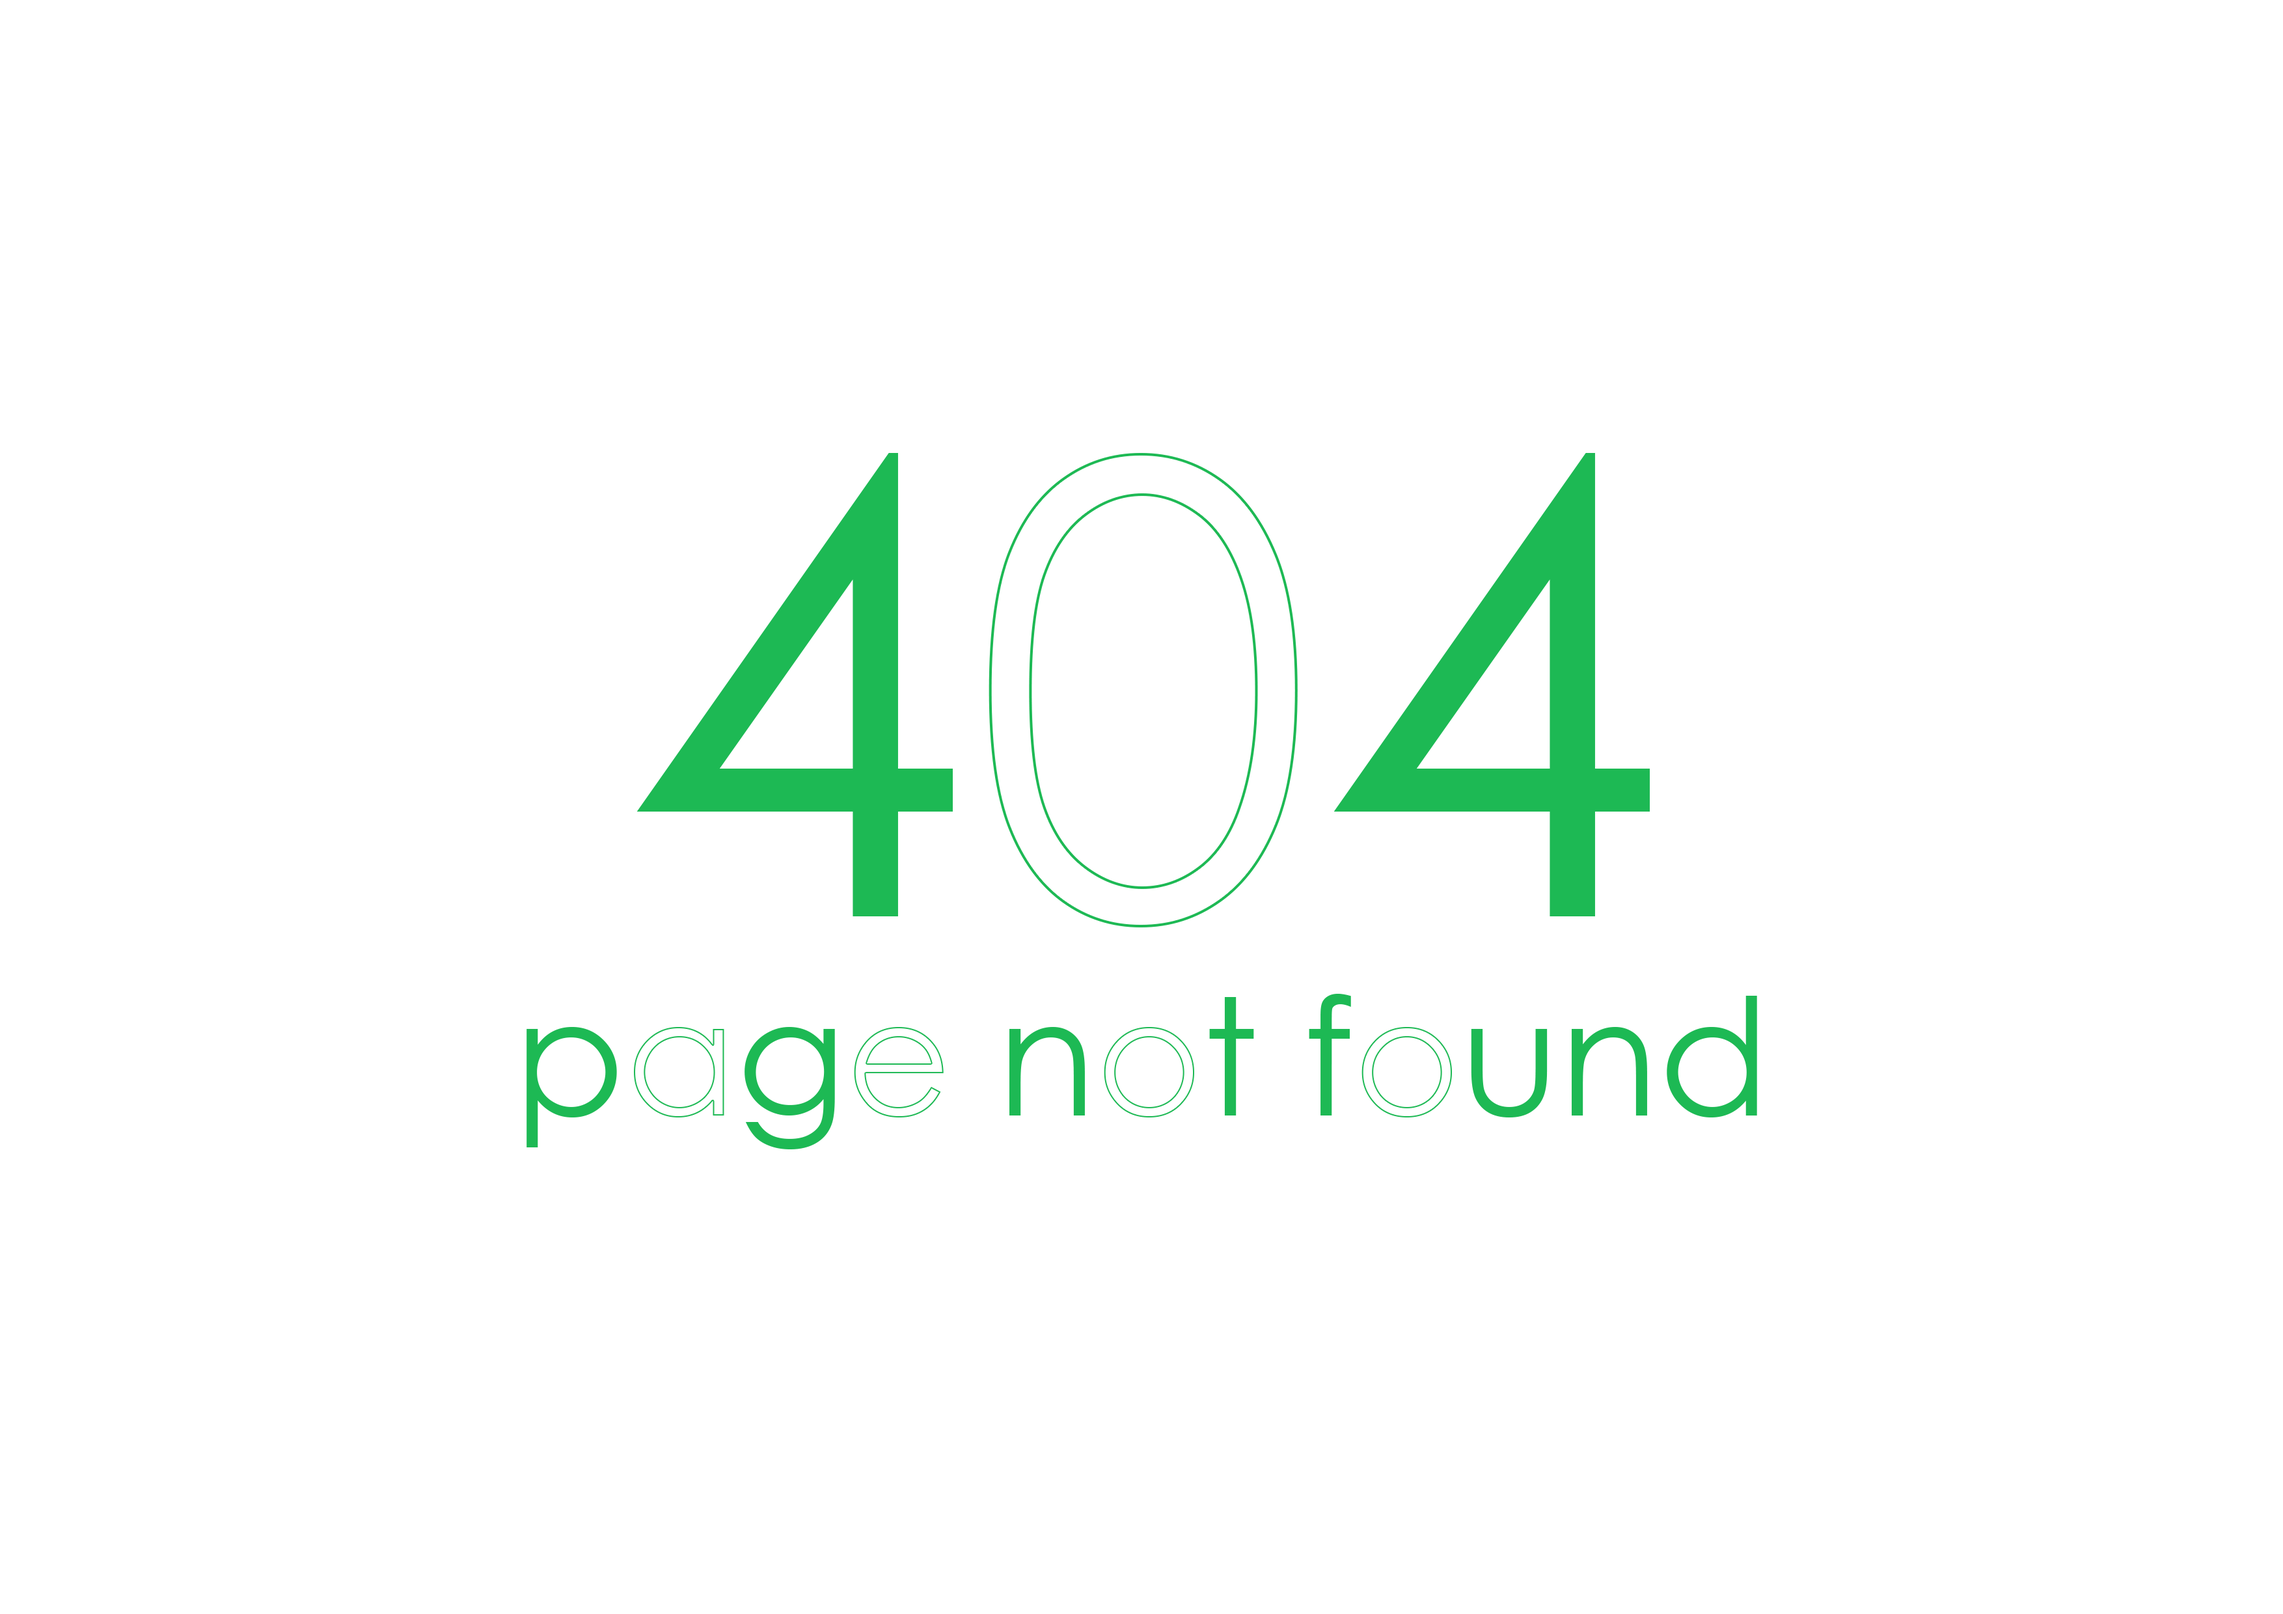
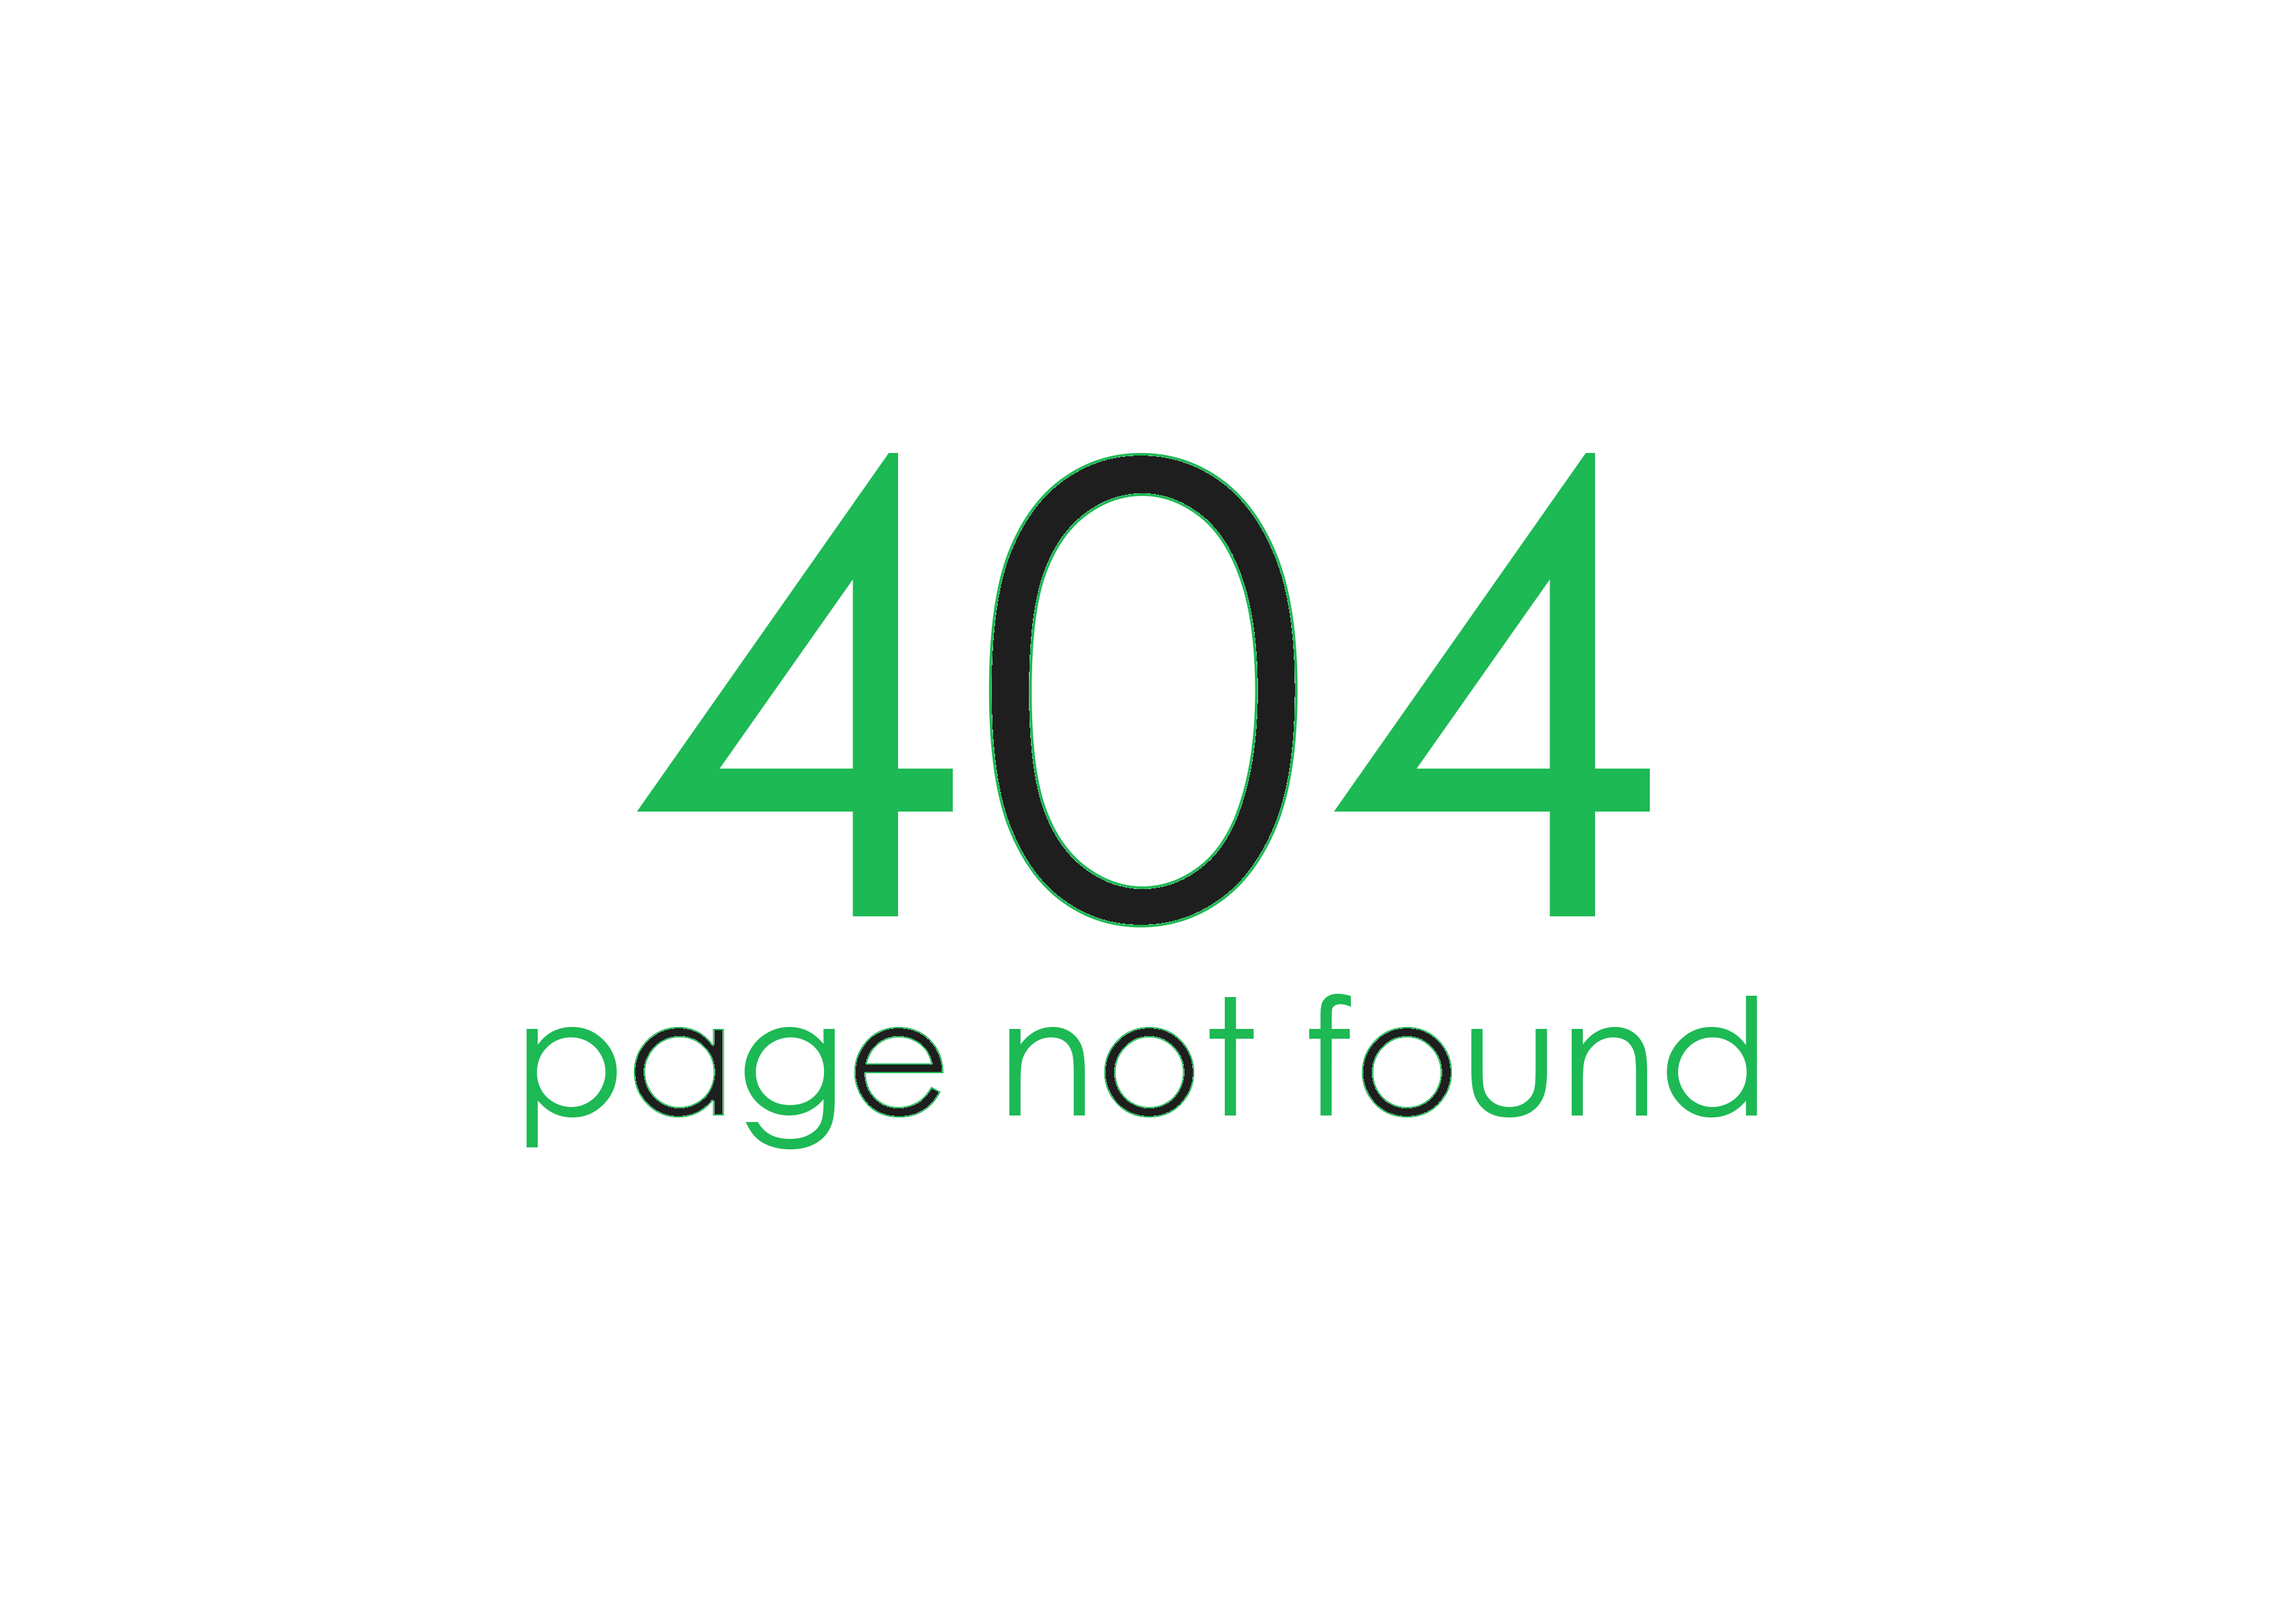
UserStory4 - 404 mechanism

diff --git a/src/router/index.js b/src/router/index.js
@@ -35,6 +35,11 @@ const routes = [
     // which is lazy-loaded when the route is visited.
     component: () =>
       import(/* webpackChunkName: "about" */ "../views/About.vue")
+  },
+  {
+    path: "*",
+    name: "404",
+    component: () => import("../views/404.vue")
   }
 ];
 

diff --git a/src/views/404.vue b/src/views/404.vue
@@ -1,0 +1,9 @@
+<template>
+  <v-container>
+    <v-row>
+      <v-col cols="12">
+        <v-img src="../assets/404.png" />
+      </v-col>
+    </v-row>
+  </v-container>
+</template>
